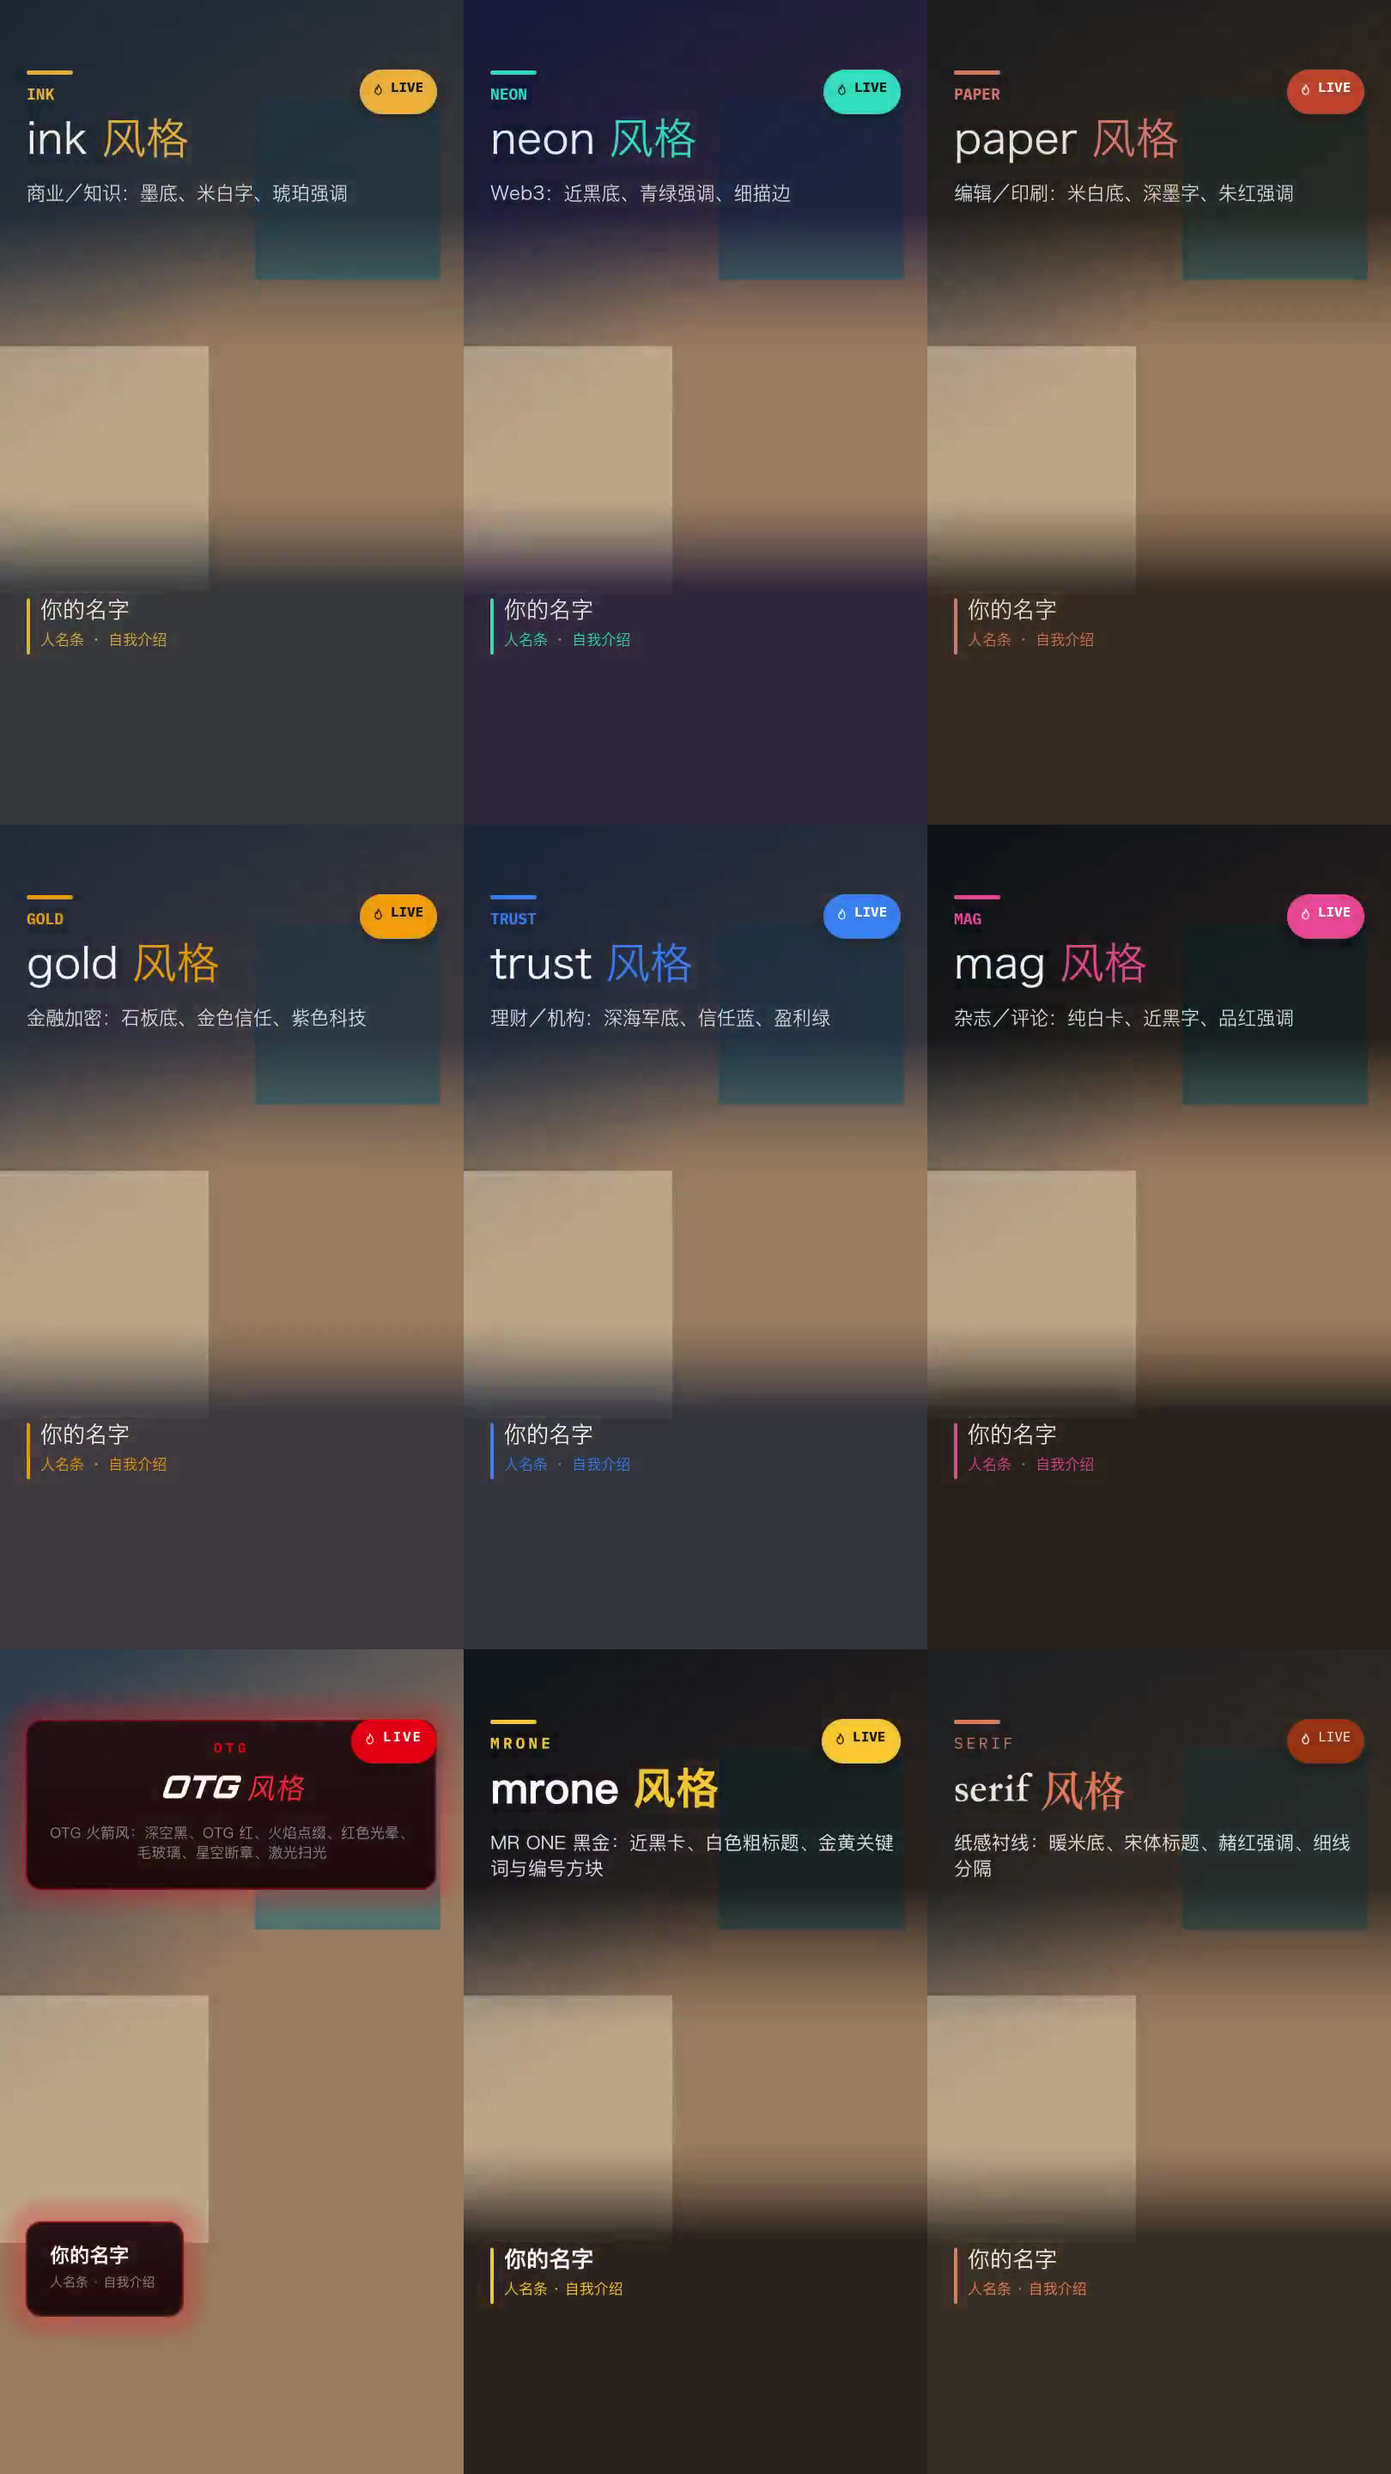
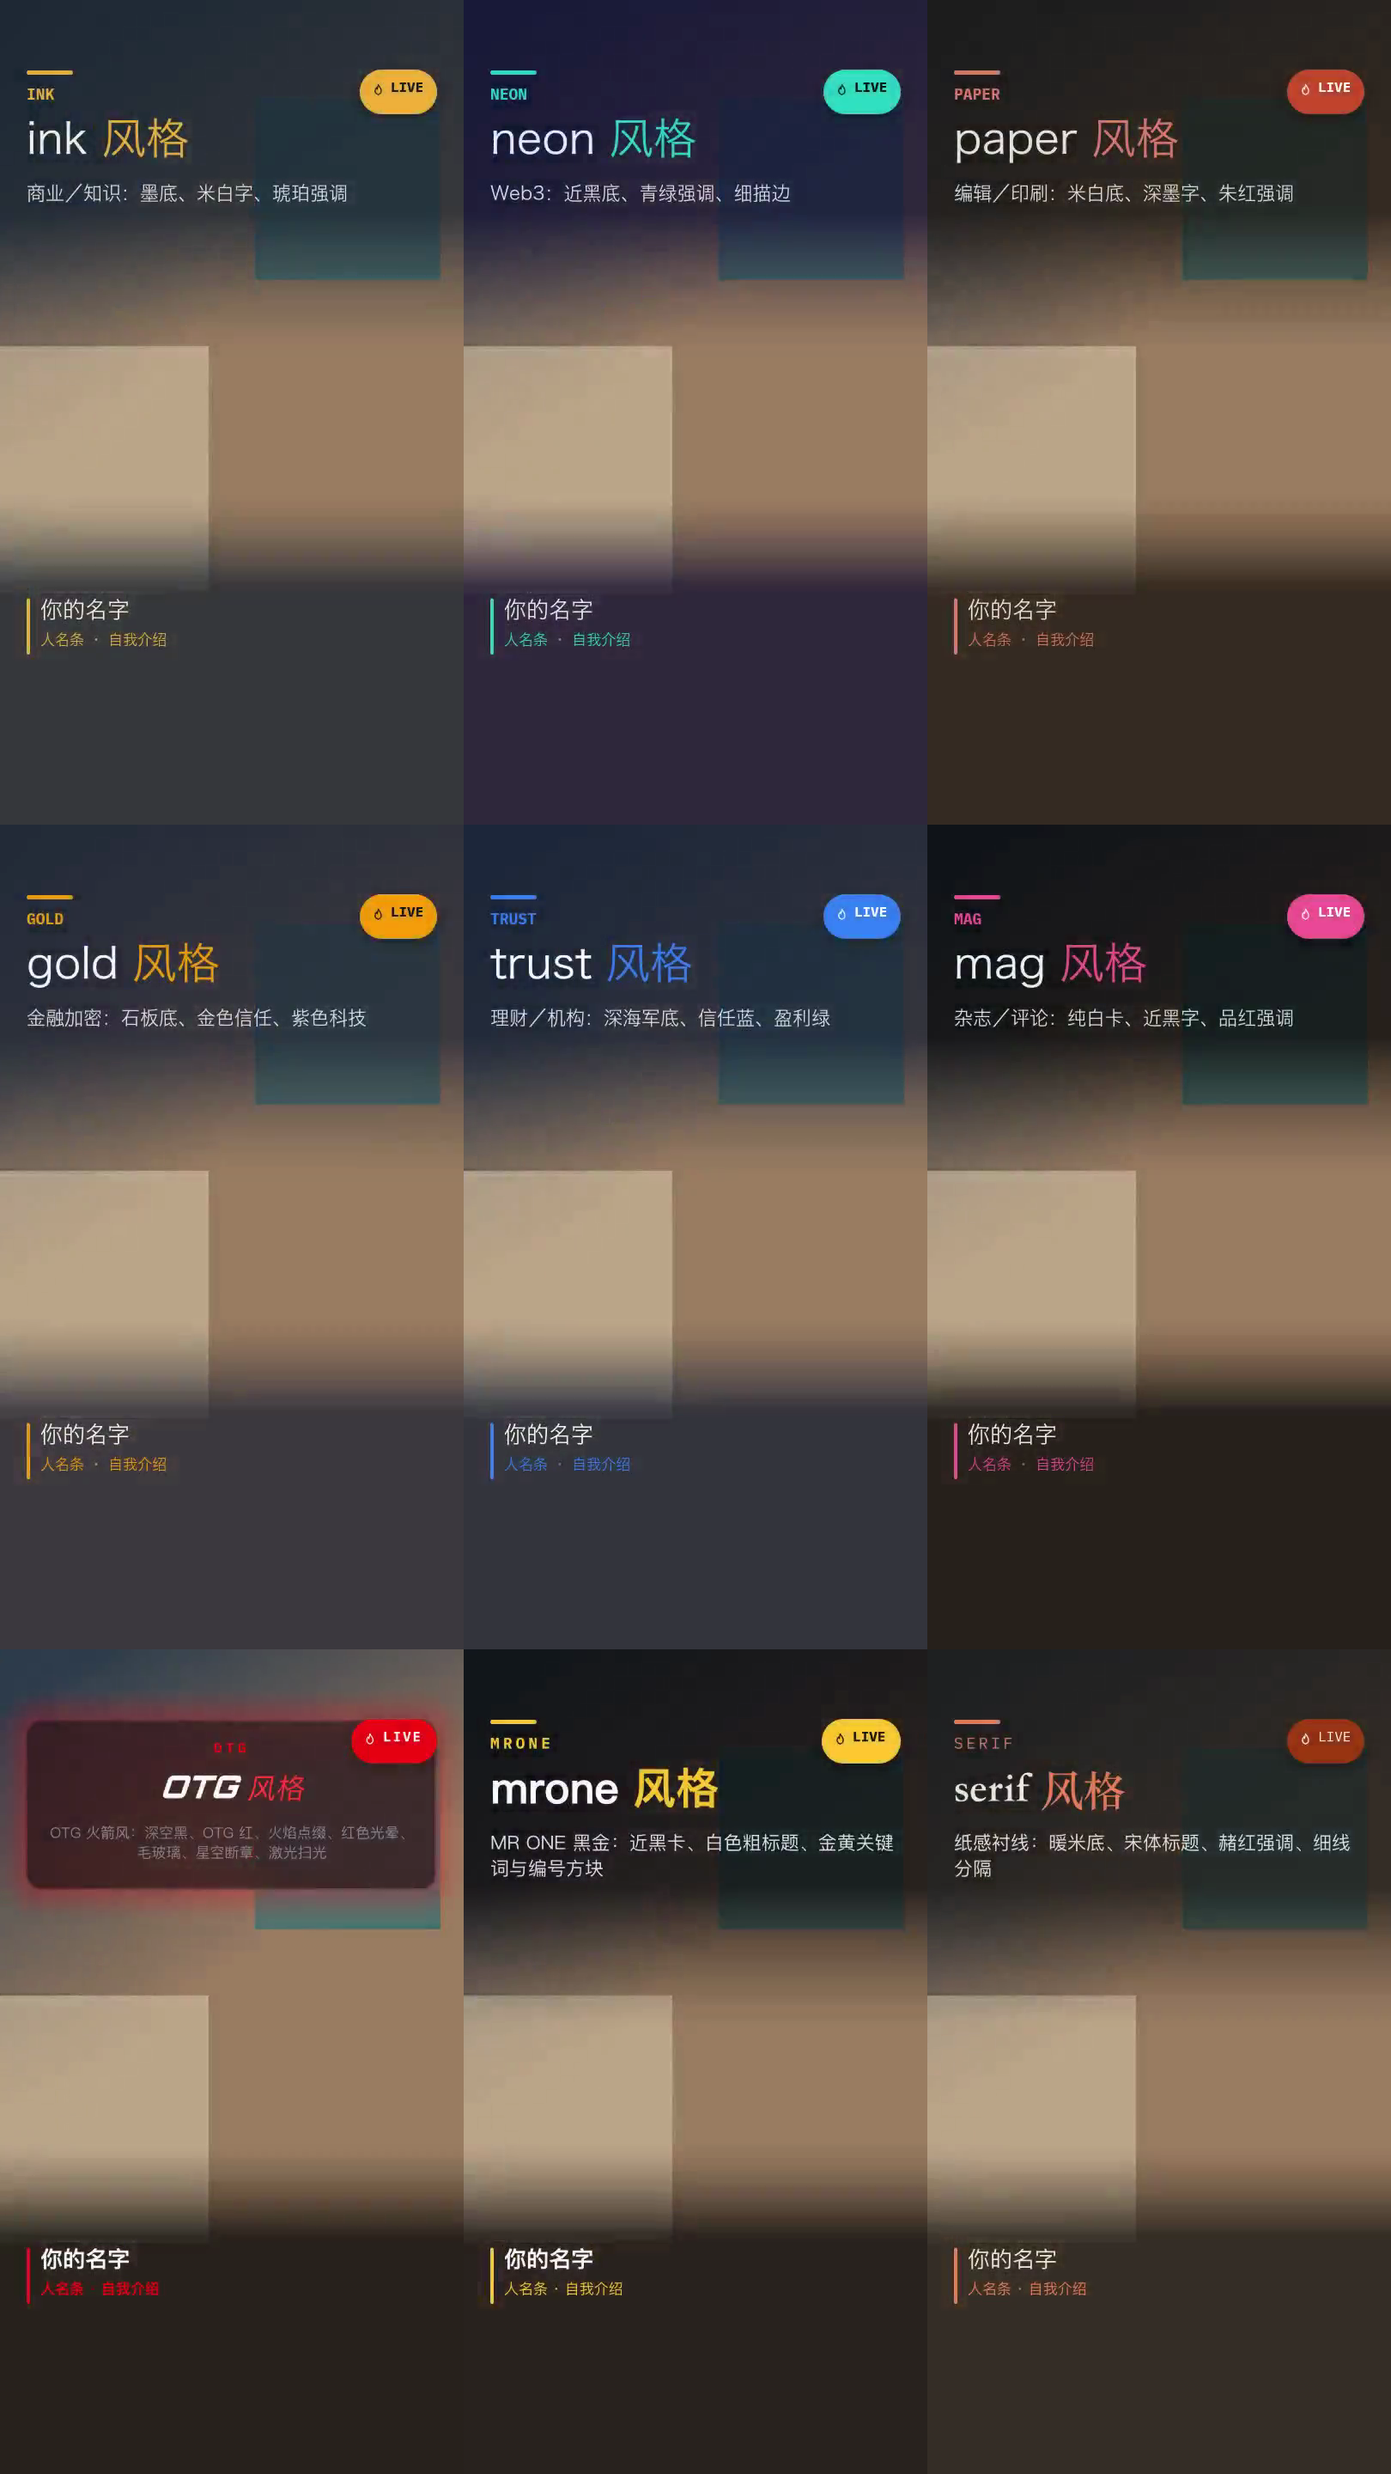
v1.0.8: otg translucent frosted plates (glow only outside), translucent starfield chapter/outro/takeover, lite lower third for otg

Changed region(s): [[0.0, 0.875, 0.3395, 1.0], [0.0, 0.6875, 0.3395, 0.7812]]

diff --git a/aaaai_editor/overlays.py b/aaaai_editor/overlays.py
@@ -187,16 +187,19 @@ def build(sb: dict, work: str, W: int, H: int, fps: float, base_idx: int = 1,
             rec = {"ov": ov, "t0": t0, "t1": t1, "under": bool(ov.get("under_captions")), "behind": False,
                    "layers": [], "items": [], "cutout": None, "th": th,
                    "engine": th.get("text_engine", "drawtext")}
-            if th.get("bleed_bg") == "starfield":
+            star = th.get("bleed_bg") == "starfield"
+            if star:
                 inputs.append(["-stream_loop", "-1", "-t", "%.3f" % dur, "-i",
                                fx.starfield(W, H, fps, th.get("accent", "#E60012"), th.get("accent2", "#FF6A1A"))])
             else:
                 png, _m = draw.make_plate({"w": W, "h": H, "radius": 0, "fill": th["plate"], "alpha": 1.0,
                                            "border": {"w": 0}, "shadow": {}}, os.path.join(work, "plates"))
                 inputs.append(["-loop", "1", "-t", "%.3f" % dur, "-i", os.path.relpath(png, work)])
-            rec["layers"].append({"idx": idx, "x": "-%d" % (0 if th.get("bleed_bg") == "starfield" else _m),
-                                  "y": "-%d" % (0 if th.get("bleed_bg") == "starfield" else _m),
-                                  "t0": t0, "t1": t1, "scale": None, "di": DEF_DI, "do": DEF_DO, "fade": True})
+            bg_layer = {"idx": idx, "x": "-%d" % (0 if star else _m), "y": "-%d" % (0 if star else _m),
+                        "t0": t0, "t1": t1, "scale": None, "di": DEF_DI, "do": DEF_DO, "fade": True,
+                        "opacity": float(th.get("takeover_star_alpha", 0.55)) if star else 1.0}
+            if not star:
+                rec["layers"].append(bg_layer)
             idx += 1
             mask, mm = draw.make_plate({"w": bw, "h": bh, "radius": th["radius"], "fill": "#FFFFFF", "alpha": 1.0,
                                         "border": {"w": 0}, "shadow": {}}, os.path.join(work, "plates"))
@@ -222,7 +225,8 @@ def build(sb: dict, work: str, W: int, H: int, fps: float, base_idx: int = 1,
                     rec["post_layers"] = [{"idx": idx, "x": "-%d" % sm, "y": "-%d" % sm, "t0": t0, "t1": t1,
                                            "scale": None, "di": DEF_DI, "do": DEF_DO, "fade": True}]
                     idx += 1
-            fr["blur_bg"] = bool(th.get("lite", 1)) and th.get("bleed_bg") != "starfield"
+            fr["blur_bg"] = True
+            fr["bg_layers"] = [bg_layer] if star else []   # 星空盖在模糊画面之上（半透明）
             prepared.append(rec)
             continue
         if typ == "cutout":
@@ -286,7 +290,8 @@ def build(sb: dict, work: str, W: int, H: int, fps: float, base_idx: int = 1,
                     clip = fx.starfield(W, H, fps, th.get("accent", "#E60012"), th.get("accent2", "#FF6A1A"))
                     inputs.append(["-stream_loop", "-1", "-t", "%.3f" % dur, "-i", clip])
                     rec["layers"].append({"idx": idx, "x": "0", "y": "0", "t0": t0, "t1": t1, "scale": None,
-                                          "di": p["di"], "do": p["do"], "fade": True})
+                                          "di": p["di"], "do": p["do"], "fade": True,
+                                          "opacity": float(th.get("starfield_alpha", 1.0))})
                     idx += 1
                 else:
                     baked = [ic for ic in loose if abs(ic["t0"] - t0) < 1e-6]
@@ -412,12 +417,24 @@ def build(sb: dict, work: str, W: int, H: int, fps: float, base_idx: int = 1,
             src = f["branch"]
             if f.get("blur_bg"):   # 背景：同一段画面放大、模糊、压暗，比纯色底有层次，也和画面连在一起
                 parts.append("[%s]split=2[fsA%d][fsB%d]" % (src, k, k))
-                parts.append("[fsB%d]scale=%d:%d,gblur=sigma=28,lutrgb=r=val*0.34:g=val*0.34:b=val*0.36,"
+                dk = 0.62 if f.get("bg_layers") else 0.34   # 上面还要盖一层半透明星空：画面少压一点
+                parts.append("[fsB%d]scale=%d:%d,gblur=sigma=28,lutrgb=r=val*%.2f:g=val*%.2f:b=val*%.2f,"
                              "format=yuva444p,%s[fbg%d]"
-                             % (k, W // 4 * 2, H // 4 * 2, fadeA(rec["t0"], rec["t1"], DEF_DI, DEF_DO), k))
+                             % (k, W // 4 * 2, H // 4 * 2, dk, dk, dk + 0.02,
+                                fadeA(rec["t0"], rec["t1"], DEF_DI, DEF_DO), k))
                 parts.append("[fbg%d]scale=%d:%d[fbs%d]" % (k, W, H, k))
                 put("fbs%d" % k, "0", "0", rec["t0"], rec["t1"])
                 src = "fsA%d" % k
+            for lay in f.get("bg_layers") or []:
+                n[0] += 1
+                d = max(0.1, lay["t1"] - lay["t0"])
+                pre = "[%d:v]format=rgba" % lay["idx"]
+                if lay.get("opacity", 1.0) < 0.999:
+                    pre += ",colorchannelmixer=aa=%.3f" % lay["opacity"]
+                pre += (",fade=t=in:st=0:d=%.3f:alpha=1,fade=t=out:st=%.3f:d=%.3f:alpha=1,setpts=PTS+%.3f/TB[bgl%d]"
+                        % (lay["di"], max(0.0, d - lay["do"]), lay["do"], lay["t0"], n[0]))
+                parts.append(pre)
+                put("bgl%d" % n[0], lay["x"], lay["y"], lay["t0"], lay["t1"])
             parts.append("[%s]scale=%d:%d,crop=%d:%d:%d:%d,format=yuva444p[fv%d]"
                          % (src, f["vw"], f["vh"], f["bw"], f["bh"], f["cx"], f["cy"], k))
             parts.append("[%d:v]alphaextract,crop=%d:%d:%d:%d[fm%d]"
@@ -471,6 +488,8 @@ def build(sb: dict, work: str, W: int, H: int, fps: float, base_idx: int = 1,
                 n[0] += 1
                 lab = "ov%d" % n[0]
                 pre = "[%d:v]format=rgba" % lay["idx"]
+                if lay.get("opacity", 1.0) < 0.999:   # 半透明（otg 星空：看得到底下的画面）
+                    pre += ",colorchannelmixer=aa=%.3f" % lay["opacity"]
                 if lay["scale"]:
                     pre += ",scale=%d:-1" % lay["scale"]
                 if lay["fade"]:

diff --git a/aaaai_editor/theme.py b/aaaai_editor/theme.py
@@ -93,14 +93,14 @@ BUILTIN: Dict[str, dict] = {
     # —— 以下三套走 libass 富文本（混色高亮、字距、斜体、展示字体）——
     "otg": {  # 依据 otg-dashboard/BRAND.md
         "desc": "OTG 火箭风：深空黑、OTG 红、火焰点缀、红色光晕、毛玻璃、星空断章、激光扫光",
-        "plate": ["#121216", "#0A0A0A"], "plate_alpha": 0.78, "radius": 18,
+        "plate": ["#121216", "#0A0A0A"], "plate_alpha": 0.40, "radius": 18,   # 毛玻璃：看得穿
         "text": "#FFFFFF", "muted": "#8A8A94", "accent": "#E60012", "on_accent": "#FFFFFF",
         "accent2": "#FF6A1A", "gold": "#FFC01E", "hl": "#FF2A3A", "lite": 0,
         # 品牌规则：翡翠绿只做状态（涨幅／成功）；陈述色用余烬金而不是青
         "value": "#10B981", "state": "#FFC01E",
         "border": {"w": 2, "color": "#6A0A12"},
         "shadow": {"soft": 34, "alpha": 0.55, "dy": 0, "color": "#E60012"},   # 红色光晕
-        "glass": {"sigma": 16}, "bleed_bg": "starfield", "laser": True, "laser_color": "#FFE3E3",
+        "glass": {"sigma": 24}, "bleed_bg": "starfield", "starfield_alpha": 0.72, "lite_types": ["lower_third"], "laser": True, "laser_color": "#FFE3E3",
         "row": "#16161B", "line": "#2A2A31",
         "text_engine": "ass", "body_font": "PingFang SC", "mono_font": "IBM Plex Mono",
         "display_font": {"file": ["~/Library/Fonts/Orbitron-VariableFont_wght.ttf",
@@ -112,6 +112,7 @@ BUILTIN: Dict[str, dict] = {
                  "kicker": {"bold": 1, "upper": 1, "tracking": 0.28},
                  "stamp": {"bold": 1, "upper": 1, "tracking": 0.12},
                  "number": {"font": "mono", "bold": 1}, "badge": {"font": "mono", "bold": 1},
+                 "name": {"bold": 1}, "position": {"bold": 1},
                  "row_title": {"bold": 1}, "name": {"bold": 1}, "label": {"bold": 1}}},
     "mrone": {  # 参考你自己成片里的观感：近黑卡、白色粗标题、金黄高亮与编号
         "desc": "MR ONE 黑金：近黑卡、白色粗标题、金黄关键词与编号方块",

diff --git a/aaaai_editor/draw.py b/aaaai_editor/draw.py
@@ -15,6 +15,7 @@ from typing import Callable, Optional, Sequence, Tuple
 from .png import write_rgba
 
 RGB = Tuple[int, int, int]
+PLATE_VER = "2"
 
 
 def hex_rgb(s: str) -> RGB:
@@ -102,7 +103,8 @@ def make_plate(spec: dict, cache_dir: str) -> Tuple[str, int]:
 
     spec: w,h,radius,fill(单色或[上,下]),alpha,border{w,color},shadow{soft,alpha,dy}
     """
-    key = hashlib.sha1(json.dumps(spec, sort_keys=True, ensure_ascii=False).encode()).hexdigest()[:16]
+    # 画法改了就把 PLATE_VER 加一：旧缓存自动失效
+    key = hashlib.sha1((PLATE_VER + json.dumps(spec, sort_keys=True, ensure_ascii=False)).encode()).hexdigest()[:16]
     os.makedirs(cache_dir, exist_ok=True)
     path = os.path.join(cache_dir, "plate_%s.png" % key)
     sh = spec.get("shadow") or {}
@@ -121,6 +123,16 @@ def make_plate(spec: dict, cache_dir: str) -> Tuple[str, int]:
         sc = hex_rgb(sh.get("color", "#000000"))
         paint(buf, W, H, cx + sh.get("dx", 0), cy + sh.get("dy", 0), hw, hh, r,
               lambda _y: sc, float(sh["alpha"]), max(1.0, float(sh.get("soft", 18))))
+
+    # 半透明底板（毛玻璃）：投影只留在边外，底板里面挖空——否则红色光晕会透上来，整块变成红色
+    if sh and sh.get("alpha", 0) > 0 and float(spec.get("alpha", 1.0)) < 0.9 and spec.get("fill"):
+        for y in range(H):
+            hs = _halfspan(hw, hh, r, abs(y + 0.5 - cy))
+            if hs <= 0:
+                continue
+            x0, x1 = max(0, int(cx - hs + 1)), min(W, int(cx + hs - 1))
+            if x1 > x0:
+                buf[(y * W + x0) * 4:(y * W + x1) * 4] = bytes((x1 - x0) * 4)
 
     sc = spec.get("scrim")
     if sc:   # 画面边缘渐变遮罩：一头最深、渐渐透明，无边框无圆角（字直接排在上面，不用方块）

diff --git a/aaaai_editor/cards.py b/aaaai_editor/cards.py
@@ -161,7 +161,8 @@ def _lighten(c: str, k: float = 0.5) -> str:
 def is_lite(ov, th) -> bool:
     """口播画面上的标题／金句／人名条：不用方块，用「画面边缘渐变遮罩＋左对齐粗体字＋强调色线条」。
     所有风格默认开启（风格里写 "lite": 0 关闭）；单张卡片可写 "lite": false 回到底板版。"""
-    return bool(th.get("lite", 1)) and ov.get("type") in LITE_TYPES and ov.get("lite", True) \
+    return (bool(th.get("lite", 1)) or ov.get("type") in (th.get("lite_types") or ())) \
+        and ov.get("type") in LITE_TYPES and ov.get("lite", True) \
         and (not ov.get("bleed") or ov.get("chapter") is not None)   # 章节断章在 lite 里改成「压暗画面」，不整屏盖黑
 
 

diff --git a/aaaai_editor/__init__.py b/aaaai_editor/__init__.py
@@ -2,4 +2,4 @@
 
 Copyright (c) 2026 MR ONE (@mrone.ai). All rights reserved. 见 LICENSE.md。
 """
-__version__ = "1.0.7"
+__version__ = "1.0.8"

diff --git a/CHANGELOG.md b/CHANGELOG.md
@@ -1,5 +1,13 @@
 # 更新记录
 
+## v1.0.8（2026-09-21）——otg 风格修正
+
+- **毛玻璃底板看得穿**：otg 的标题、数据、对比、金句底板改成半透明（40%）＋更强的背景模糊；
+  底板里面不再透出红色光晕（光晕只留在边外），真的像一块烟灰色毛玻璃。
+- **星空半透明**：星空章节页、星空片尾、星空接管背景都改成半透明，底下的画面看得到；接管背景是模糊画面叠一层星空。
+- **otg 人名条**：改用下沿渐变遮罩＋红色竖线＋粗体姓名、红色职务（其他卡片仍是 otg 的红框毛玻璃）。
+- 风格可用 `lite_types` 指定哪几种卡片用渐变遮罩版；底板图缓存加版本号，画法更新后旧缓存自动失效。
+
 ## v1.0.7（2026-09-21）
 
 - **成片好找了**：项目默认放在 Finder 的「影片」里（`~/Movies/aaaai-editor/`）；每次正式渲染和做封面后，

diff --git a/skills/aaaai-editor/SKILL.md b/skills/aaaai-editor/SKILL.md
@@ -2,7 +2,7 @@
 name: aaaai-editor
 description: "aaaai-editor 影片总监套件：口播／访谈／活动素材的 AI 剪辑（转录、剪停顿、中英双语字幕与关键词高亮、卡片／数据跳数／编号清单／章节断章／人物穿插／卡片接管、配乐闪避、响度 -14 LUFS、封面），并负责其他格式的派工与统一收尾——品牌动画片交给 motion-graphic-video-editor、讲解片／网站转影片／产品发布／音乐影片／幻灯片交给 HeyGen HyperFrames，做完都回到 aaaai-editor 做字幕、响度、封面与逐帧验收，最后可交给 social-content-pipeline 打包发布。唤醒词：'/aaaai-editor'、'aaaai-editor 剪片'、'用 aaaai-editor 剪'；用户丢来视频文件要求剪辑、加字幕、做成片，或要做任何短视频时也适用。"
 metadata:
-  version: "1.0.7"
+  version: "1.0.8"
 ---
 
 # aaaai-editor 影片总监
